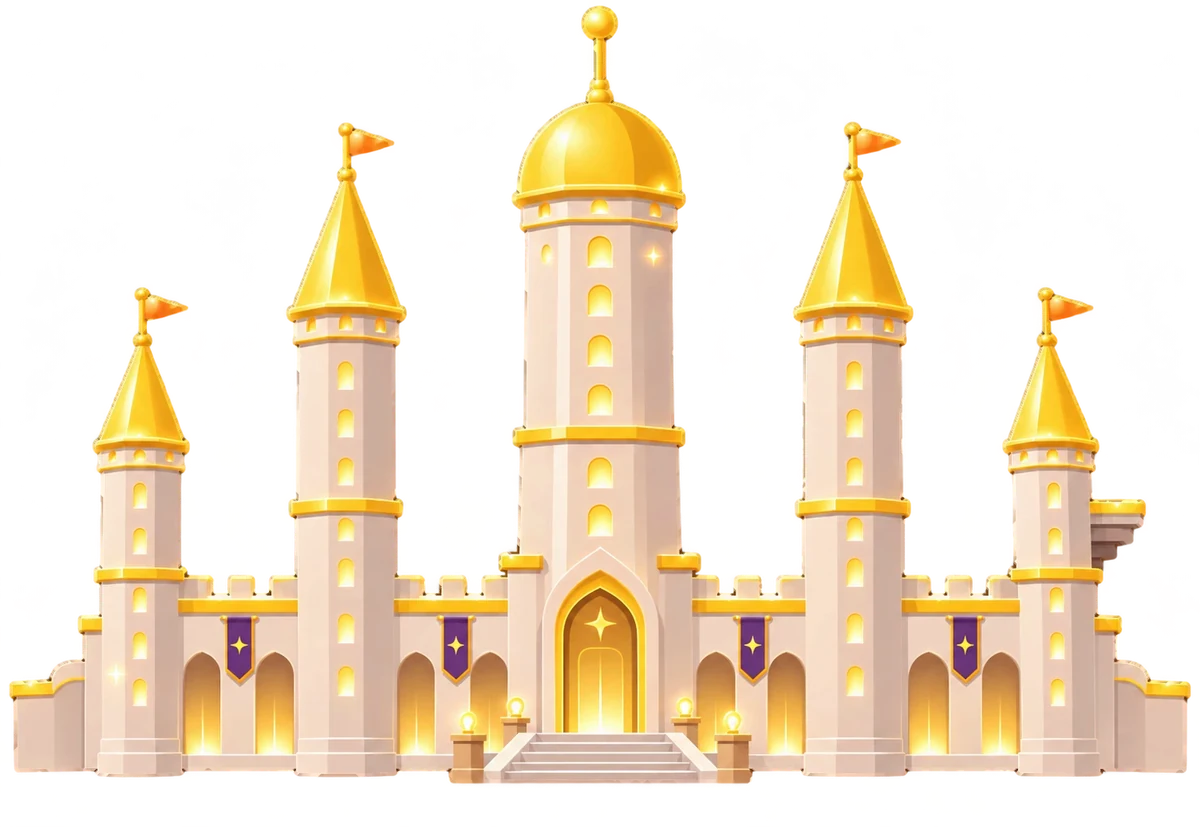
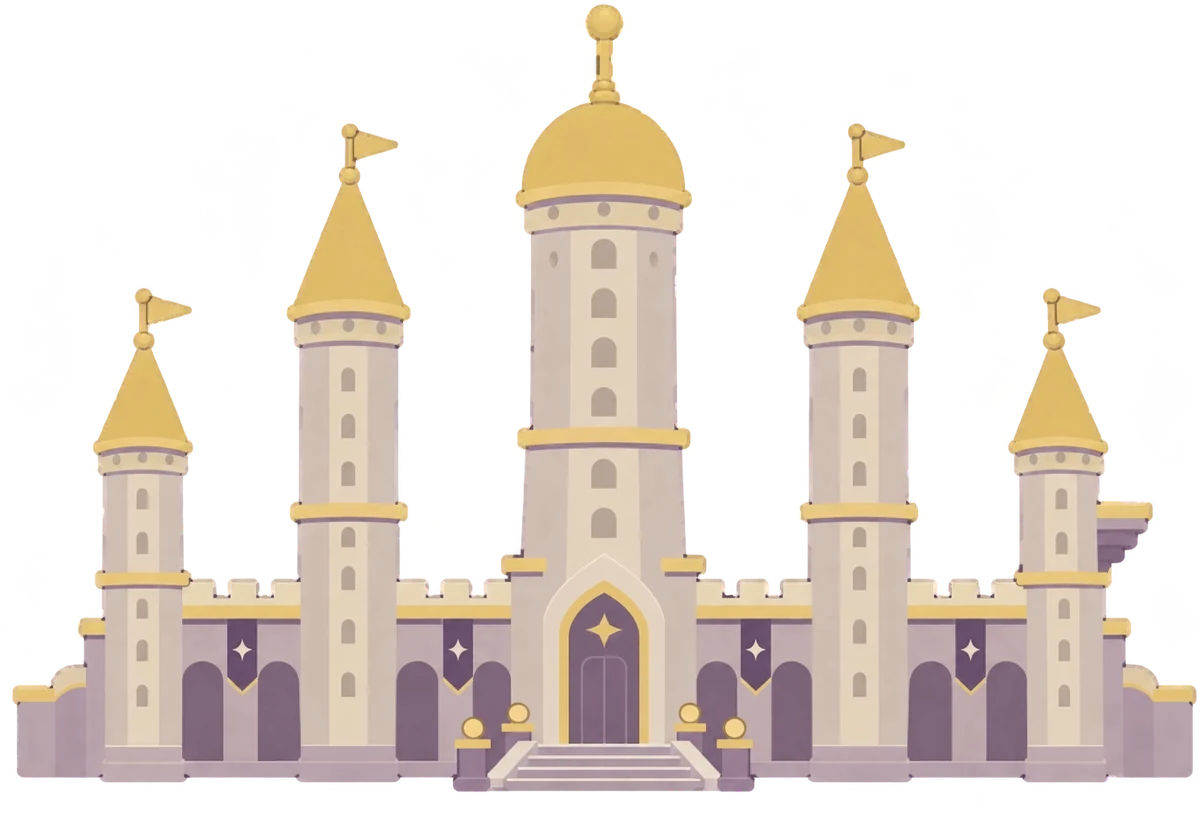
Radiant Citadel: new castle art
- Replaced with the new pastel castle, its dark outline removed and re-exported
- Same placement (between the sand layers, centred, 95% opacity, faded foot); the colour grade is
  now just a light lift, since the new art is already painted in the realm's palette

Claude-Session: https://claude.ai/code/session_01XKnRKYQsLvsJVo5aA7zAfV

diff --git a/index.html b/index.html
@@ -6,7 +6,7 @@
   <meta name="theme-color" content="#0c0e15">
   <meta name="description" content="Element Rag - a physics ragdoll brawler across eight elemental realms. Unlock 31 elements, knock foes off floating islands, beat 64 stages and bosses, climb the Arena and survive Endless.">
   <title>Element Rag</title>
-  <link rel="stylesheet" href="css/style.css?v=138">
+  <link rel="stylesheet" href="css/style.css?v=139">
   <script src="https://sdk.crazygames.com/crazygames-sdk-v3.js"></script>
 </head>
 <body>
@@ -156,23 +156,23 @@
   <div id="bars" aria-hidden="true"><i style="--i:4"></i><i style="--i:3"></i><i style="--i:5"></i><i style="--i:2"></i><i style="--i:6"></i><i style="--i:1"></i><i style="--i:7"></i><i style="--i:0"></i><i style="--i:8"></i></div>
   <div id="rotate" class="hidden"><div><span class="ic" data-icon="rotate"></span><p>TURN YOUR DEVICE SIDEWAYS</p><button class="btn primary" id="btnRotateOk"><b>PLAY ANYWAY</b></button></div></div>
 
-  <script src="js/util.js?v=138"></script>
-  <script src="js/platform.js?v=138"></script>
-  <script src="js/audio.js?v=138"></script>
-  <script src="js/elements.js?v=138"></script>
-  <script src="js/realms.js?v=138"></script>
-  <script src="js/winterfest.js?v=138"></script>
-  <script src="js/progress.js?v=138"></script>
-  <script src="js/cosmetics.js?v=138"></script>
-  <script src="js/meta.js?v=138"></script>
-  <script src="js/ragdoll.js?v=138"></script>
-  <script src="js/world.js?v=138"></script>
-  <script src="js/fx.js?v=138"></script>
-  <script src="js/game.js?v=138"></script>
-  <script src="js/icons.js?v=138"></script>
-  <script src="js/rhythm.js?v=138"></script>
-  <script src="js/titlefx.js?v=138"></script>
-  <script src="js/ui.js?v=138"></script>
-  <script src="js/main.js?v=138"></script>
+  <script src="js/util.js?v=139"></script>
+  <script src="js/platform.js?v=139"></script>
+  <script src="js/audio.js?v=139"></script>
+  <script src="js/elements.js?v=139"></script>
+  <script src="js/realms.js?v=139"></script>
+  <script src="js/winterfest.js?v=139"></script>
+  <script src="js/progress.js?v=139"></script>
+  <script src="js/cosmetics.js?v=139"></script>
+  <script src="js/meta.js?v=139"></script>
+  <script src="js/ragdoll.js?v=139"></script>
+  <script src="js/world.js?v=139"></script>
+  <script src="js/fx.js?v=139"></script>
+  <script src="js/game.js?v=139"></script>
+  <script src="js/icons.js?v=139"></script>
+  <script src="js/rhythm.js?v=139"></script>
+  <script src="js/titlefx.js?v=139"></script>
+  <script src="js/ui.js?v=139"></script>
+  <script src="js/main.js?v=139"></script>
 </body>
 </html>

diff --git a/js/world.js b/js/world.js
@@ -187,30 +187,19 @@ CITADEL_IMG.decoding = 'async';
 CITADEL_IMG.onload = () => { if (typeof Backdrop !== 'undefined') Backdrop.invalidate(); };
 CITADEL_IMG.src = 'assets/img/citadel.webp';
 
-// the castle, colour-graded once to sit in the Radiant Citadel's light: a touch softer and less
-// saturated, washed with the sky's pink-violet from above and lit by warm sand from below; its bottom
-// 10% fades to nothing, so no hard image edge can ever show
+// the castle, prepared once: lifted slightly to hold up under the backdrop's dimming, and its bottom
+// 10% faded to nothing, so no hard image edge can ever show
 let citadelCv = null;
 function citadelFaded(realm) {
   if (citadelCv) return citadelCv;
   const im = CITADEL_IMG, cv = document.createElement('canvas');
   cv.width = im.naturalWidth; cv.height = im.naturalHeight;
   const c = cv.getContext('2d');
-  c.filter = 'saturate(0.88) contrast(0.93) brightness(1.04)';
+  // the art is already painted in this realm's palette: just lift it a little so it holds up
+  // under the backdrop's overall dimming
+  c.filter = 'saturate(1.1) brightness(1.12)';
   c.drawImage(im, 0, 0);
   c.filter = 'none';
-  // ambient light: sky colour over the upper castle, sand bounce over the lower walls
-  c.globalCompositeOperation = 'source-atop';
-  const amb = c.createLinearGradient(0, 0, 0, cv.height);
-  amb.addColorStop(0, rgba(realm.sky[1], 0.2));
-  amb.addColorStop(0.45, rgba(mixHex(realm.sky[1], realm.sun, 0.5), 0.12));
-  amb.addColorStop(1, rgba(realm.hills[0], 0.3));
-  c.fillStyle = amb; c.fillRect(0, 0, cv.width, cv.height);
-  // a gentle warm multiply so the cream stone takes on the dunes' golden hue
-  c.globalCompositeOperation = 'multiply';
-  c.fillStyle = rgba(mixHex('#ffffff', realm.hills[0], 0.28), 1); c.fillRect(0, 0, cv.width, cv.height);
-  c.globalCompositeOperation = 'destination-in';
-  c.drawImage(im, 0, 0);   // multiply painted the transparent area too: clip back to the castle's shape
   c.globalCompositeOperation = 'destination-in';
   const m = c.createLinearGradient(0, 0, 0, cv.height);
   m.addColorStop(0, '#000'); m.addColorStop(0.9, '#000'); m.addColorStop(1, 'rgba(0,0,0,0)');
